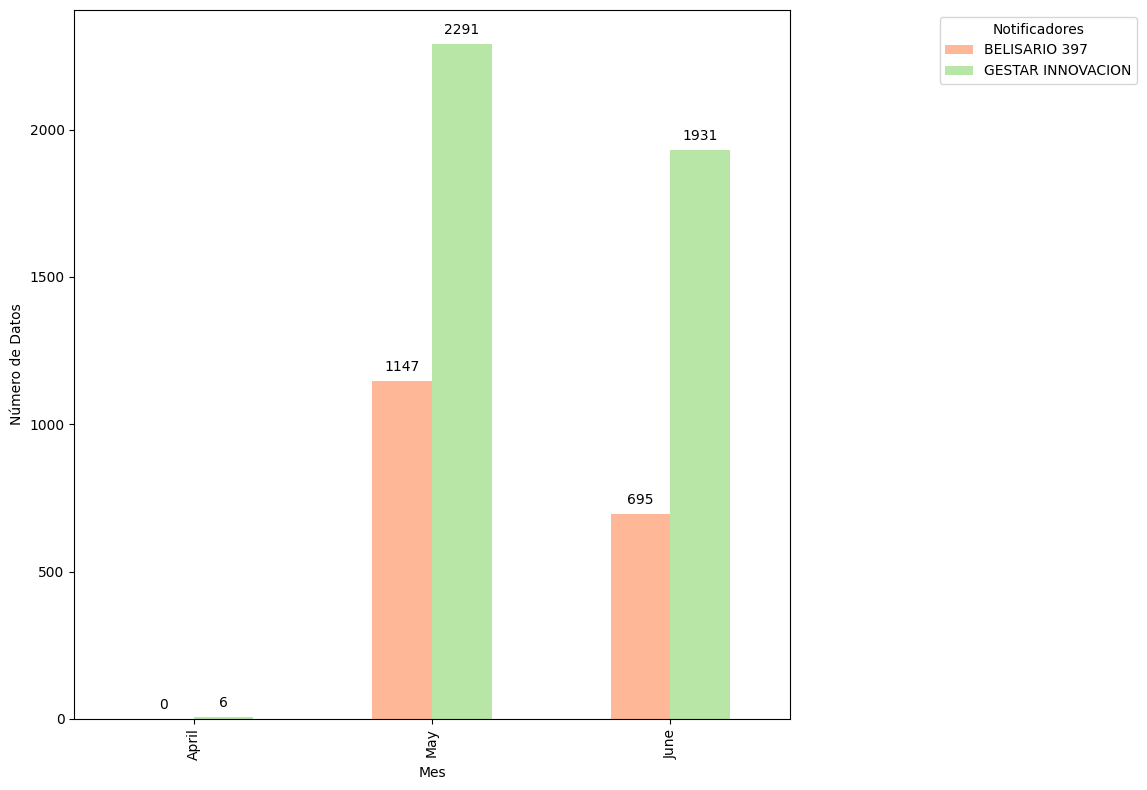
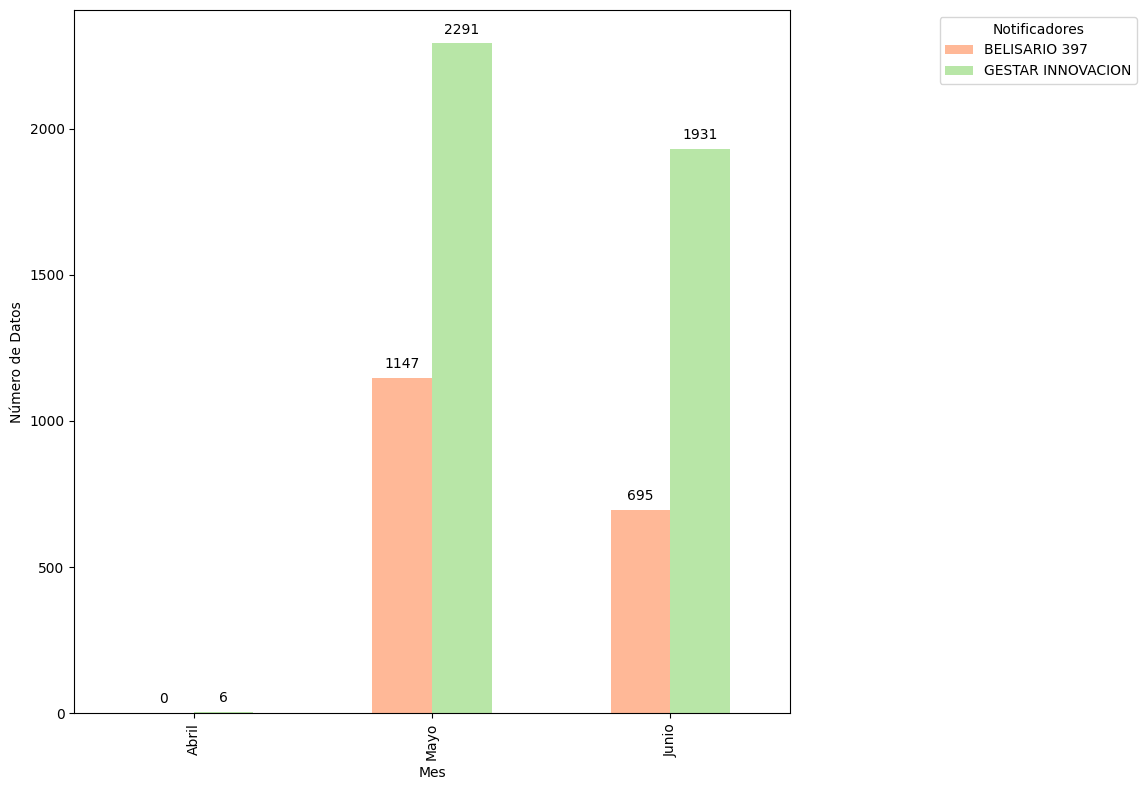
Todo lo solicitado el 2-07 hecho

diff --git a/views/proceso1.py b/views/proceso1.py
@@ -9,13 +9,18 @@ import matplotlib.pyplot as plt
 from openpyxl.drawing.image import Image
 import csv
 
-# Colores para las gráficas
+# Colores 
 colores = ['#FFB897', '#B8E6A7', '#809bce', "#64a09d", '#CBE6FF', '#E6E6FA']
+# Meses 
+meses_en_espanol = {
+    1: 'Enero', 2: 'Febrero', 3: 'Marzo', 4: 'Abril', 5: 'Mayo', 6: 'Junio', 
+    7: 'Julio', 8: 'Agosto', 9: 'Septiembre', 10: 'Octubre', 11: 'Noviembre', 12: 'Diciembre'
+}
 
 # ------------------------------------------------------------------------------- GRÁFICOS DE BARRAS -------------------------------------------------------------
 def graficas_barras(df, colores, nombre_hoja):
     conteo = df.groupby(['MES', 'NOTIFICADOR']).size().unstack(fill_value=0)
-    conteo.index = conteo.index.map(lambda m: calendar.month_name[m].capitalize())
+    conteo.index = conteo.index.map(lambda m: meses_en_espanol[m].capitalize())
     num_meses = len(conteo)
     num_notificadores = len(conteo.columns)
     fig_width = max(12, num_meses * 1.2)
@@ -42,7 +47,7 @@ def graficas_barras_comparativa(df, nombre_hoja):
     df_comparativa = df[df['NOTIFICADOR'].isin(['BELISARIO 397', 'GESTAR INNOVACION'])]
     
     conteo = df_comparativa.groupby(['MES', 'NOTIFICADOR']).size().unstack(fill_value=0)
-    conteo.index = conteo.index.map(lambda m: calendar.month_name[m].capitalize())
+    conteo.index = conteo.index.map(lambda m: meses_en_espanol[m].capitalize())
     
     # Crear la gráfica de barras
     fig, ax = plt.subplots(figsize=(12, 8))
@@ -68,7 +73,7 @@ def graficas_barras_belisario_utmdl(df, nombre_hoja, mes):
     df_filtrado = df[(df['NOTIFICADOR'].isin(['BELISARIO', 'UTMDL'])) & (df['MES'] == mes)]
     
     conteo = df_filtrado.groupby(['MES', 'NOTIFICADOR']).size().unstack(fill_value=0)
-    conteo.index = conteo.index.map(lambda m: calendar.month_name[m].capitalize())
+    conteo.index = conteo.index.map(lambda m: meses_en_espanol[m].capitalize())
     
     # Crear la gráfica de barras
     fig, ax = plt.subplots(figsize=(12, 8))
@@ -91,7 +96,7 @@ def graficas_barras_belisario_utmdl(df, nombre_hoja, mes):
 # ------------------------------------------------------------------------------- GRÁFICOS DE PASTEL -------------------------------------------------------------
 def graficas_pastel(df, nombre_hoja):
     conteo = df.groupby('MES').size()
-    conteo.index = conteo.index.map(lambda m: calendar.month_name[m].capitalize())  
+    conteo.index = conteo.index.map(lambda m: meses_en_espanol[m].capitalize())  
     fig, ax = plt.subplots(figsize=(8, 8))
     ax.pie(conteo, labels=conteo.index, autopct='%1.1f%%', startangle=90, colors=colores)
     ax.legend(title='Meses', loc='center left', bbox_to_anchor=(1.05, 0.5), fontsize=10)
@@ -115,6 +120,22 @@ def graficas_pastel_belisario_utmdl(df, nombre_hoja):
     plt.savefig(grafico_path, transparent=True, bbox_inches="tight")
     return grafico_path
 
+def graficapastel_ano(df, nombre_hoja):
+    # Filtrar solo los datos de BELISARIO397 y GESTAR INNOVACION
+    df_comparativa = df[df['NOTIFICADOR'].isin(['BELISARIO 397', 'GESTAR INNOVACION'])]
+    
+    # Crear gráfico de pastel comparativo por notificadores
+    conteo = df_comparativa.groupby('NOTIFICADOR').size()
+    
+    fig, ax = plt.subplots(figsize=(8, 8))
+    ax.pie(conteo, labels=conteo.index, autopct='%1.1f%%', startangle=90, colors=colores)
+    ax.legend(title='Notificadores', loc='center left', bbox_to_anchor=(1.05, 0.5), fontsize=10)
+
+    # Guardar el gráfico en un archivo
+    grafico_path = f"{nombre_hoja}_grafico_pastel_ano.png"
+    plt.tight_layout()
+    plt.savefig(grafico_path, transparent=True, bbox_inches="tight")
+    return grafico_path
 # ------------------------------------------------------------------------------- HOJAS -------------------------------------------------------------
 # Hoja por Mes Seleccionado
 def crear_hoja_mes_seleccionado(libro, nombre_hoja, df, mes):
@@ -154,25 +175,15 @@ def crear_comparativa_ano_dto(libro, df_dto):
     # Filtrar solo los datos de BELISARIO397 y GESTAR INNOVACION
     df_comparativa = df_dto[df_dto['NOTIFICADOR'].isin(['BELISARIO 397', 'GESTAR INNOVACION'])]
 
-    # Crear la tabla comparativa por mes
-    tabla_comparativa = df_comparativa.groupby(['MES', 'NOTIFICADOR']).size().unstack(fill_value=0)
-    tabla_comparativa.index = tabla_comparativa.index.map(lambda m: calendar.month_name[m].capitalize())
-
-    # Escribir la tabla comparativa en la hoja
-    for i, row in enumerate(dataframe_to_rows(tabla_comparativa, index=True, header=True), start=1):
-        for j, value in enumerate(row, start=1):
-            hoja.cell(row=i, column=j, value=value)
-
     # Generar el gráfico de barras comparativo
     grafico_barras_comparativa_path = graficas_barras_comparativa(df_comparativa, "COMPARATIVA AÑO DTO")
     img_comparativa_barras = Image(grafico_barras_comparativa_path)
     hoja.add_image(img_comparativa_barras, 'E5')
 
     # Generar gráfico de pastel comparativo
-    grafico_pastel_comparativa_path = graficas_pastel_belisario_utmdl(df_comparativa, "COMPARATIVA AÑO DTO")
+    grafico_pastel_comparativa_path = graficapastel_ano(df_comparativa, "COMPARATIVA AÑO DTO")
     img_comparativa_pastel = Image(grafico_pastel_comparativa_path)
     hoja.add_image(img_comparativa_pastel, 'E20')
-
 # Hoja "COMPARATIVA AÑO PCL"
 def crear_comparativa_ano_pcl(libro, df_pcl):
     if "COMPARATIVA AÑO PCL" in libro.sheetnames:
@@ -182,22 +193,13 @@ def crear_comparativa_ano_pcl(libro, df_pcl):
     # Filtrar solo los datos de BELISARIO397 y GESTAR INNOVACION
     df_comparativa = df_pcl[df_pcl['NOTIFICADOR'].isin(['BELISARIO 397', 'GESTAR INNOVACION'])]
 
-    # Crear la tabla comparativa por mes
-    tabla_comparativa = df_comparativa.groupby(['MES', 'NOTIFICADOR']).size().unstack(fill_value=0)
-    tabla_comparativa.index = tabla_comparativa.index.map(lambda m: calendar.month_name[m].capitalize())
-
-    # Escribir la tabla comparativa en la hoja
-    for i, row in enumerate(dataframe_to_rows(tabla_comparativa, index=True, header=True), start=1):
-        for j, value in enumerate(row, start=1):
-            hoja.cell(row=i, column=j, value=value)
-
     # Generar el gráfico de barras comparativo
     grafico_barras_comparativa_path = graficas_barras_comparativa(df_comparativa, "COMPARATIVA AÑO PCL")
     img_comparativa_barras = Image(grafico_barras_comparativa_path)
     hoja.add_image(img_comparativa_barras, 'E5')
 
     # Generar gráfico de pastel comparativo
-    grafico_pastel_comparativa_path = graficas_pastel_belisario_utmdl(df_comparativa, "COMPARATIVA AÑO PCL")
+    grafico_pastel_comparativa_path = graficapastel_ano(df_comparativa, "COMPARATIVA AÑO DTO")
     img_comparativa_pastel = Image(grafico_pastel_comparativa_path)
     hoja.add_image(img_comparativa_pastel, 'E20')
 
@@ -206,7 +208,7 @@ def generar_tablas_dto_y_pcl(libro, df_dto, df_pcl):
     def crear_hoja(nombre_hoja, df):
         df['MES'] = df['FECHA_VISADO'].dt.month
         conteo = df.groupby('MES').size().reset_index(name='TOTAL')
-        conteo['MES'] = conteo['MES'].apply(lambda m: calendar.month_name[m].capitalize())
+        conteo['MES'] = conteo['MES'].apply(lambda m: meses_en_espanol[m].capitalize())
         total_general = conteo['TOTAL'].sum()
         conteo['PORCENTAJE'] = (conteo['TOTAL'] / total_general * 100).round(2).astype(str) + '%'
 
@@ -315,8 +317,8 @@ def procesar_archivos():
     archivo, tipo = subir_archivo()
 
     if archivo and tipo == "xlsx":
-        # Mostrar el selector de mes
-        mes_seleccionado = st.selectbox("Selecciona el mes", list(calendar.month_name[1:]))  # Los meses son de 1 a 12
+        # Mostrar el selector de mes con los meses en español
+        mes_seleccionado = st.selectbox("Selecciona el mes", list(meses_en_espanol.values()))  # Ahora muestra los meses en español
 
         # Leer las hojas DTO y PCL
         df_dto = pd.read_excel(archivo, sheet_name='DTO', parse_dates=['FECHA_VISADO'])
@@ -327,9 +329,9 @@ def procesar_archivos():
         archivo_bytes = BytesIO(archivo.read())
         libro = load_workbook(archivo_bytes)
 
-        # El mes seleccionado es el nombre del mes. Para convertirlo en el número del mes, usamos calendar.month_name
-        mes_num = list(calendar.month_name[1:]).index(mes_seleccionado) + 1  # Obtiene el índice del mes (1-12)
-        
+        # Convertir el mes seleccionado a número usando el diccionario
+        mes_num = list(meses_en_espanol.values()).index(mes_seleccionado) + 1  # Obtiene el índice del mes (1-12)
+
         # Llamar a la función para generar las hojas con el mes seleccionado
         crear_hoja_mes_seleccionado(libro, f"DTO_{mes_seleccionado}", df_dto, mes_num)
         crear_hoja_mes_seleccionado(libro, f"PCL_{mes_seleccionado}", df_pcl, mes_num)
@@ -348,3 +350,4 @@ def procesar_archivos():
         st.success("✅ Archivo generado con éxito.")
     elif archivo and tipo == "csv":
         st.warning("Actualmente el procesamiento está disponible solo para archivos .xlsx con hojas DTO y PCL.")
+
